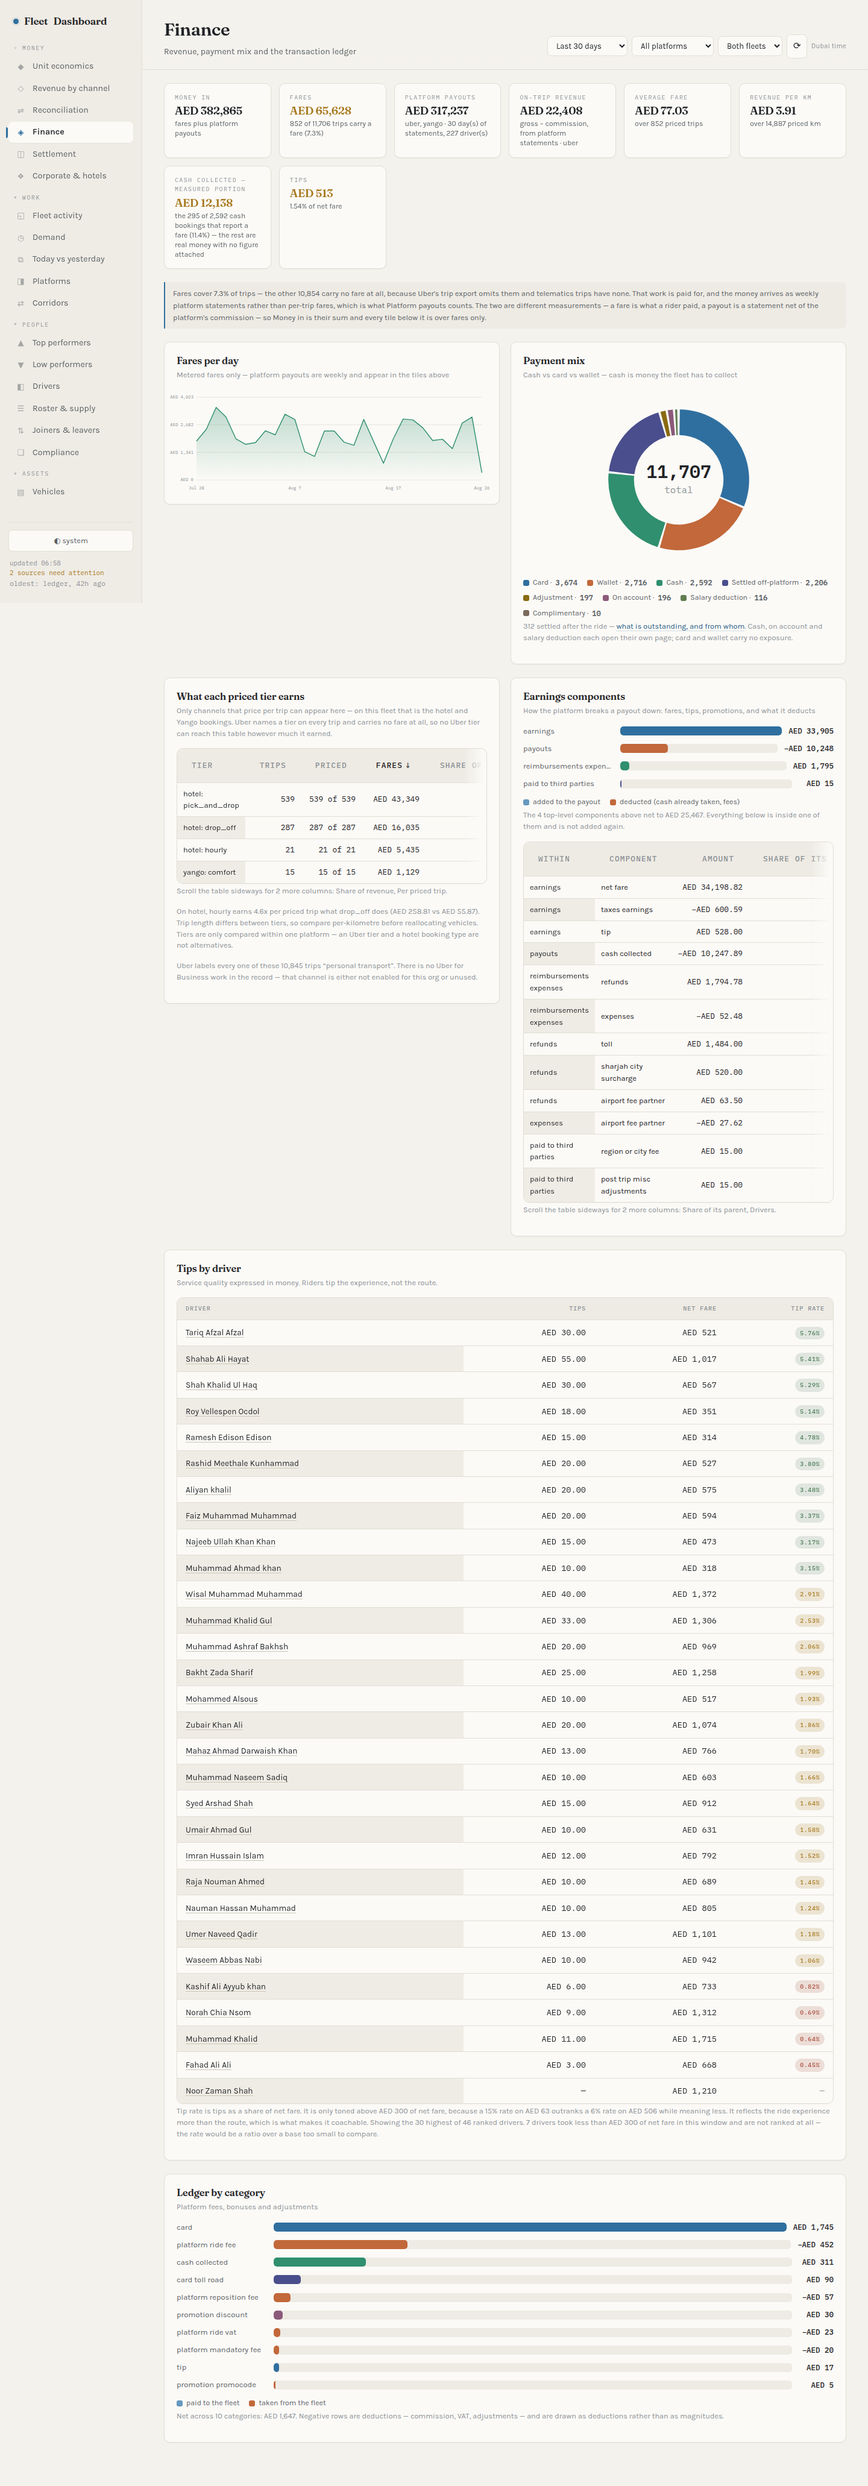
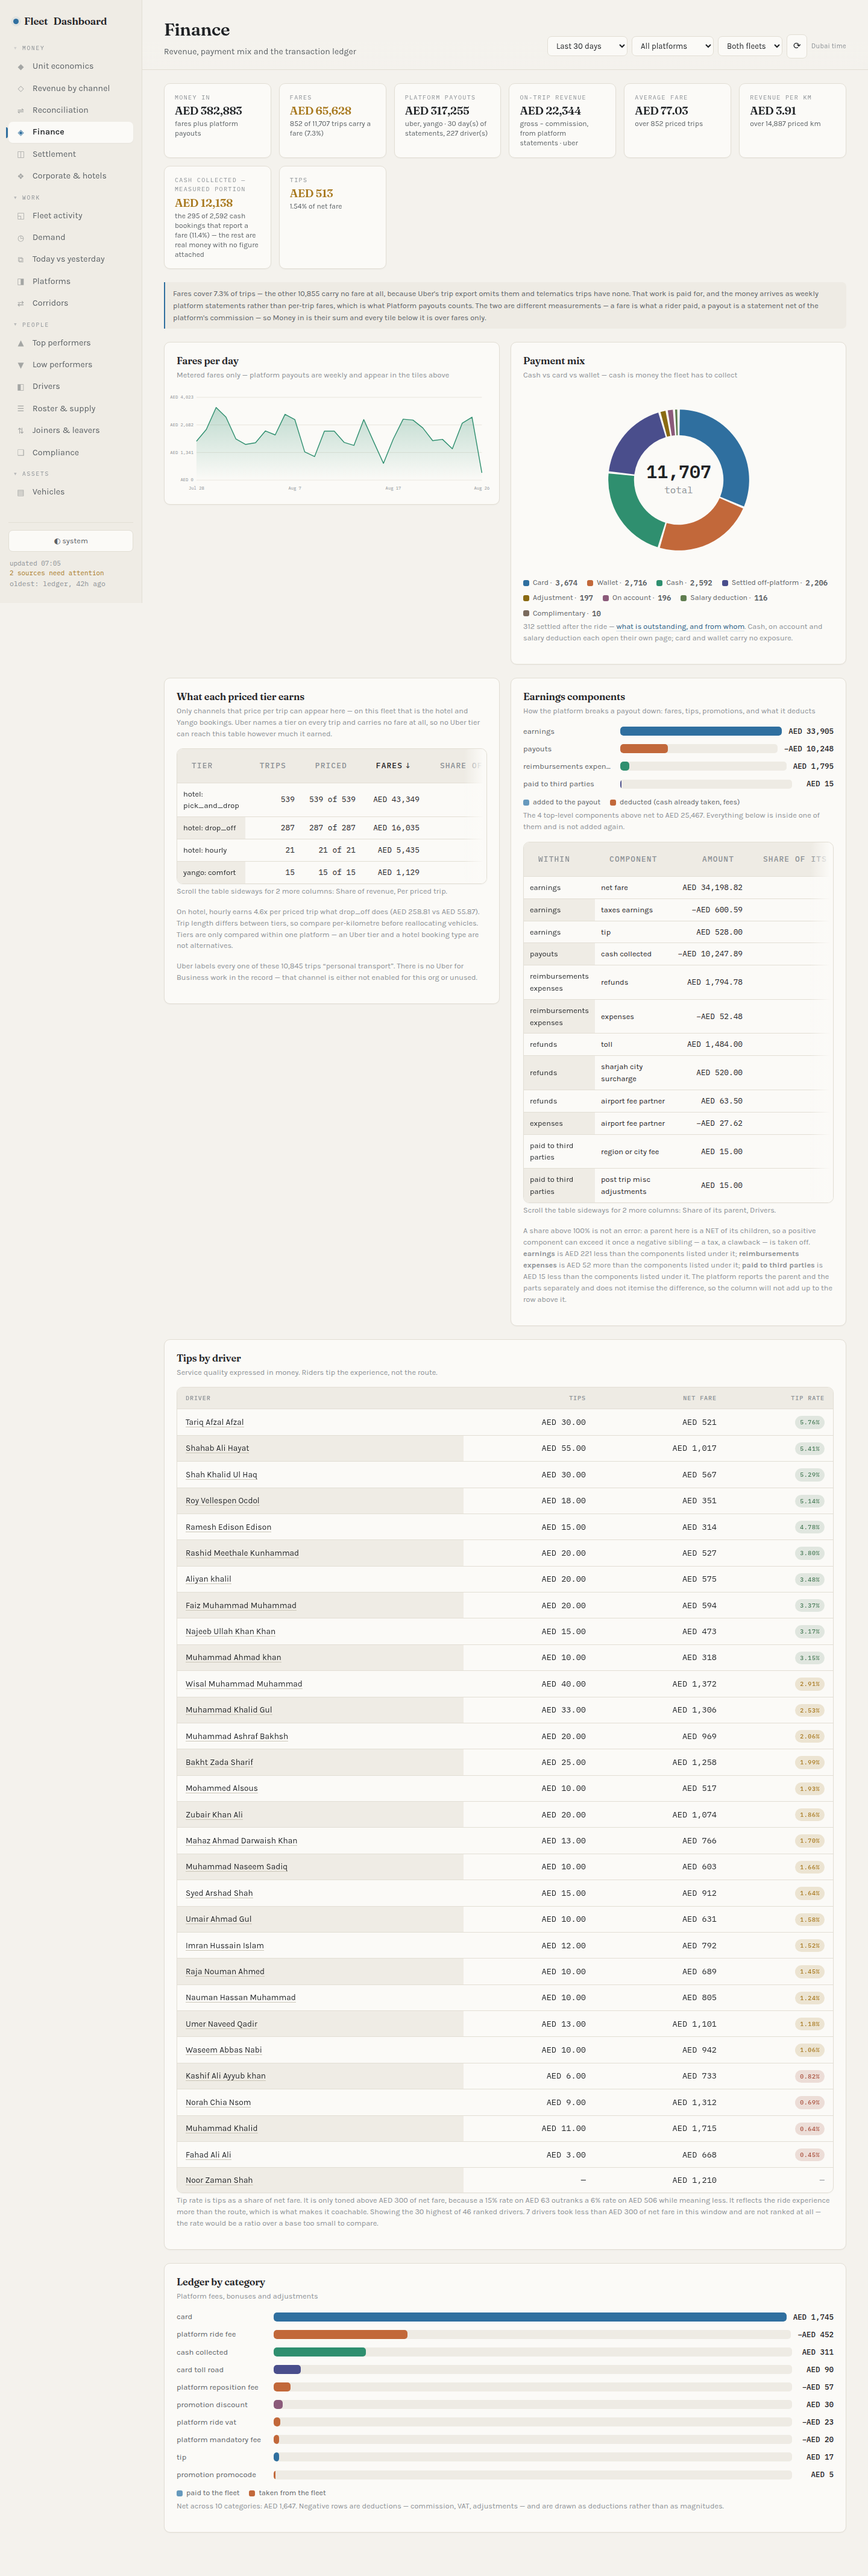
Three numbers reading as something they are not
#demand: "Trips on 42°C+ days = 363" is the DAILY AVERAGE under a label
that reads as a total. There are eighteen such days, so the total is
6,534. The comparison beside it — "vs 431 on cooler days" — only works if
both halves are known to be per-day, and nothing said so. Now "Trips per
42°C+ day … on average, over 18 hot days — against 431 a day on the 12
cooler ones".

#demand: "Temp vs volume = -0.25" came from toFixed, which emits an ASCII
hyphen. A correlation is the one figure on that row whose sign is read
first, and every other number on the page uses a true minus.

#compare: delta() printed "▼ 11 (-19%)" — an arrow saying down, an
ABSOLUTE magnitude, and a SIGNED percentage. Three statements of
direction where one is enough, with the odd one out in the wrong glyph.
The arrow carries the sign, so the percentage carries the magnitude.

#compare: "Rows, 24h — Uber 1,381,368" on a fleet taking about five
hundred bookings a day. It is sum(rows_written) across every collection
run that finished in the last 24 hours, and a collector runs many times a
day re-upserting rows it already holds. Not wrong — that many row-writes
did happen — but on a panel headed "Was everything collected?" it reads
as "1.4 million rows arrived today", off by three orders of magnitude in
the direction of reassurance. Renamed "Rows written", with a caption
saying what it counts and pointing at Last success for the question the
panel actually asks.
[…]

diff --git a/collector/api/public/compare.js b/collector/api/public/compare.js
@@ -68,7 +68,14 @@ function delta(now, then, { fmt: f = (v) => fmt(v), worse = false, pctToo = true
   if (!d) return '<span class="dim">—</span>';
   const up = d > 0;
   const good = worse ? !up : up;
-  const p = pctToo && b ? ` (${up ? '+' : ''}${Math.round((d / b) * 100)}%)` : '';
+  /* The magnitude and the percentage have to agree with each other.
+     ─────────────────────────────────────────────────────────────────────────
+     This printed "▼ 11 (-19%)": an arrow saying down, an ABSOLUTE magnitude,
+     and a SIGNED percentage — three statements of direction where one is
+     enough, and the minus an ASCII hyphen where every other number on the page
+     uses U+2212. The arrow already carries the sign, so the percentage is the
+     magnitude too. */
+  const p = pctToo && b ? ` (${Math.abs(Math.round((d / b) * 100))}%)` : '';
   return `<span class="dl ${good ? 'up' : 'dn'}">${up ? '▲' : '▼'} ${f(Math.abs(d))}${esc(p)}</span>`;
 }
 
@@ -317,8 +324,26 @@ export async function renderCompare(root, aParam, bParam) {
       { label: 'Last run', key: 'last_run', render: (r) => (r.last_run ? hhmm(r.last_run) : '—') },
       { label: 'Last success', key: 'last_ok',
         render: (r) => (stale(r) ? pill(stale(r), 'warn') : hhmm(r.last_ok)) },
-      { label: 'Rows, 24h', key: 'rows_24h', num: true, render: (r) => fmt(r.rows_24h) },
+      /* Named for what it counts, which is not what the old heading implied.
+         ─────────────────────────────────────────────────────────────────────
+         It is `sum(rows_written)` across every collection RUN that finished in
+         the last 24 hours, and a collector runs many times a day and re-upserts
+         the rows it already holds. Measured live: Uber reads 1,381,368 under a
+         heading of "Rows, 24h", on a fleet that takes about five hundred
+         bookings a day. The figure is not wrong — that many row-writes did
+         happen — but on a panel headed "Was everything collected?" it reads as
+         "1.4 million rows arrived today", which is off by three orders of
+         magnitude in the direction of reassurance.
+
+         The useful signal on this panel is the last two columns; this one only
+         answers "did anything move at all", so it says that instead. */
+      { label: 'Rows written', key: 'rows_24h', num: true, render: (r) => fmt(r.rows_24h) },
     ], { compact: true }));
+    freshP.body.append(el('p', 'cap',
+      'Rows written counts every write by every collection run that finished in the last 24 hours. '
+      + 'A collector runs many times a day and re-writes rows it already holds, so this is far '
+      + 'larger than the number of new records and is only useful as "did anything move at all". '
+      + 'Whether the day is complete is the Last success column.'));
     const bad = cols.filter((r) => stale(r));
     if (bad.length) {
       freshP.body.append(note(`${countOf(bad.length, 'source')} last succeeded over a day ago — `

diff --git a/collector/api/public/app.js b/collector/api/public/app.js
@@ -719,9 +719,19 @@ V.demand = async (root) => {
     ctxP.body.append(kpiRow([
       { label: 'Hottest day', value: `${Math.max(...withWeather.map((r) => r.temp_max)).toFixed(1)}°C`,
         sub: `${fmt(withWeather.filter((r) => r.temp_max >= 42).length)} days at or above 42°C` },
-      { label: 'Trips on 42°C+ days', value: hot.length ? fmt(Math.round(avg(hot))) : '—',
-        sub: mild.length ? `vs ${fmt(Math.round(avg(mild)))} on cooler days` : 'no cooler days to compare' },
-      { label: 'Temp vs volume', value: rho.toFixed(2),
+      /* An AVERAGE, said so. `avg(hot)` is trips per hot day, and the label
+         "Trips on 42°C+ days" reads as the total: 363 against eighteen such
+         days, where the total is 6,534. The comparison beside it only works if
+         both halves are known to be per-day. */
+      { label: 'Trips per 42°C+ day', value: hot.length ? fmt(Math.round(avg(hot))) : '—',
+        sub: mild.length
+          ? `on average, over ${countOf(hot.length, 'hot day')} — against `
+            + `${fmt(Math.round(avg(mild)))} a day on the ${fmt(mild.length)} cooler ones`
+          : 'no cooler days to compare' },
+      /* toFixed emits an ASCII hyphen; every other number on this page uses a
+         true minus. A correlation is the one figure here whose sign is read
+         first. */
+      { label: 'Temp vs volume', value: rho.toFixed(2).replace(/^-/, '\u2212'),
         sub: Math.abs(rho) < 0.3 ? 'no meaningful relationship in this window'
           : rho < 0 ? 'hotter days run quieter' : 'hotter days run busier',
         tone: Math.abs(rho) < 0.3 ? null : 'warn' },
